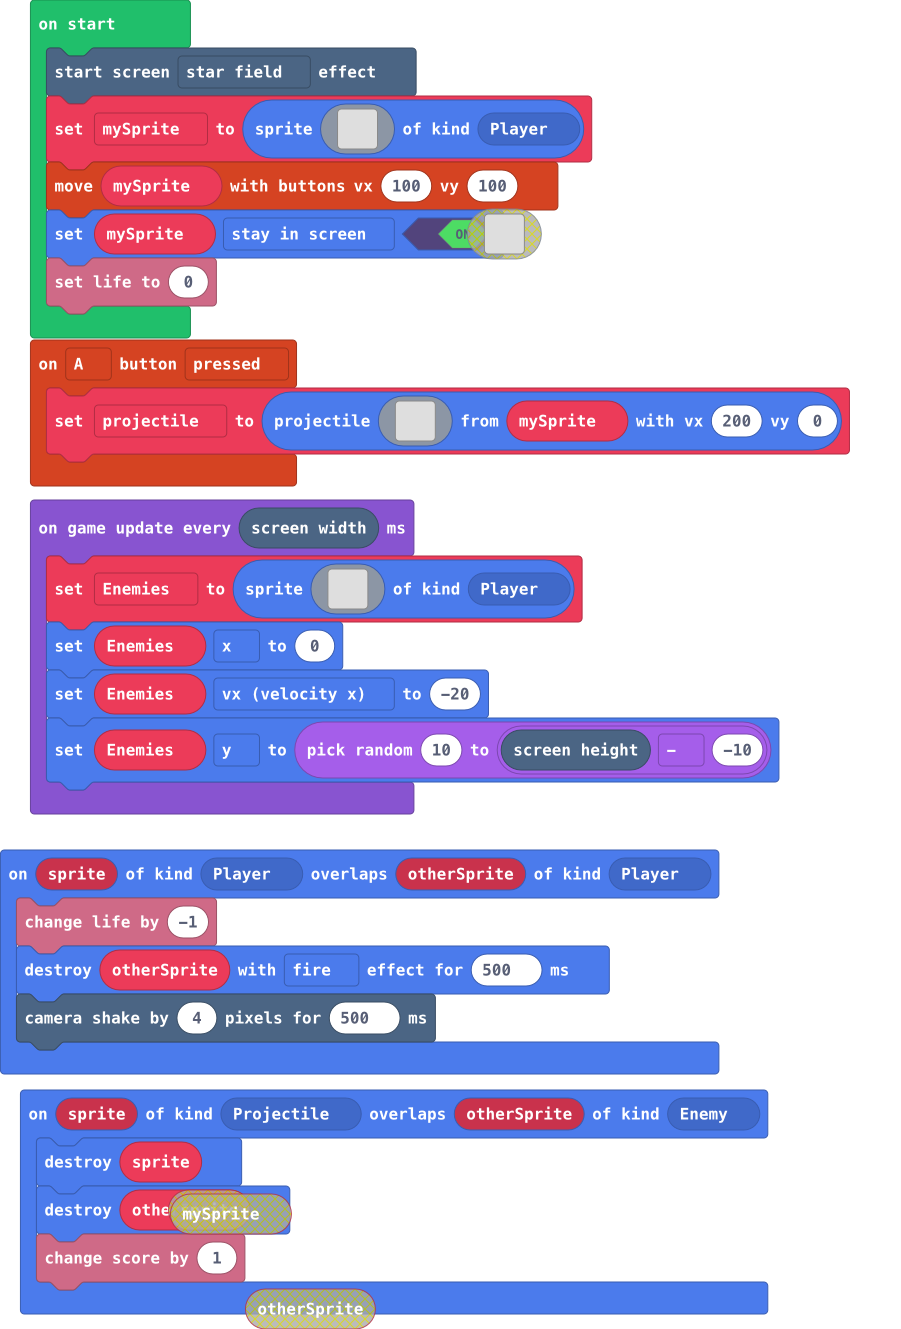
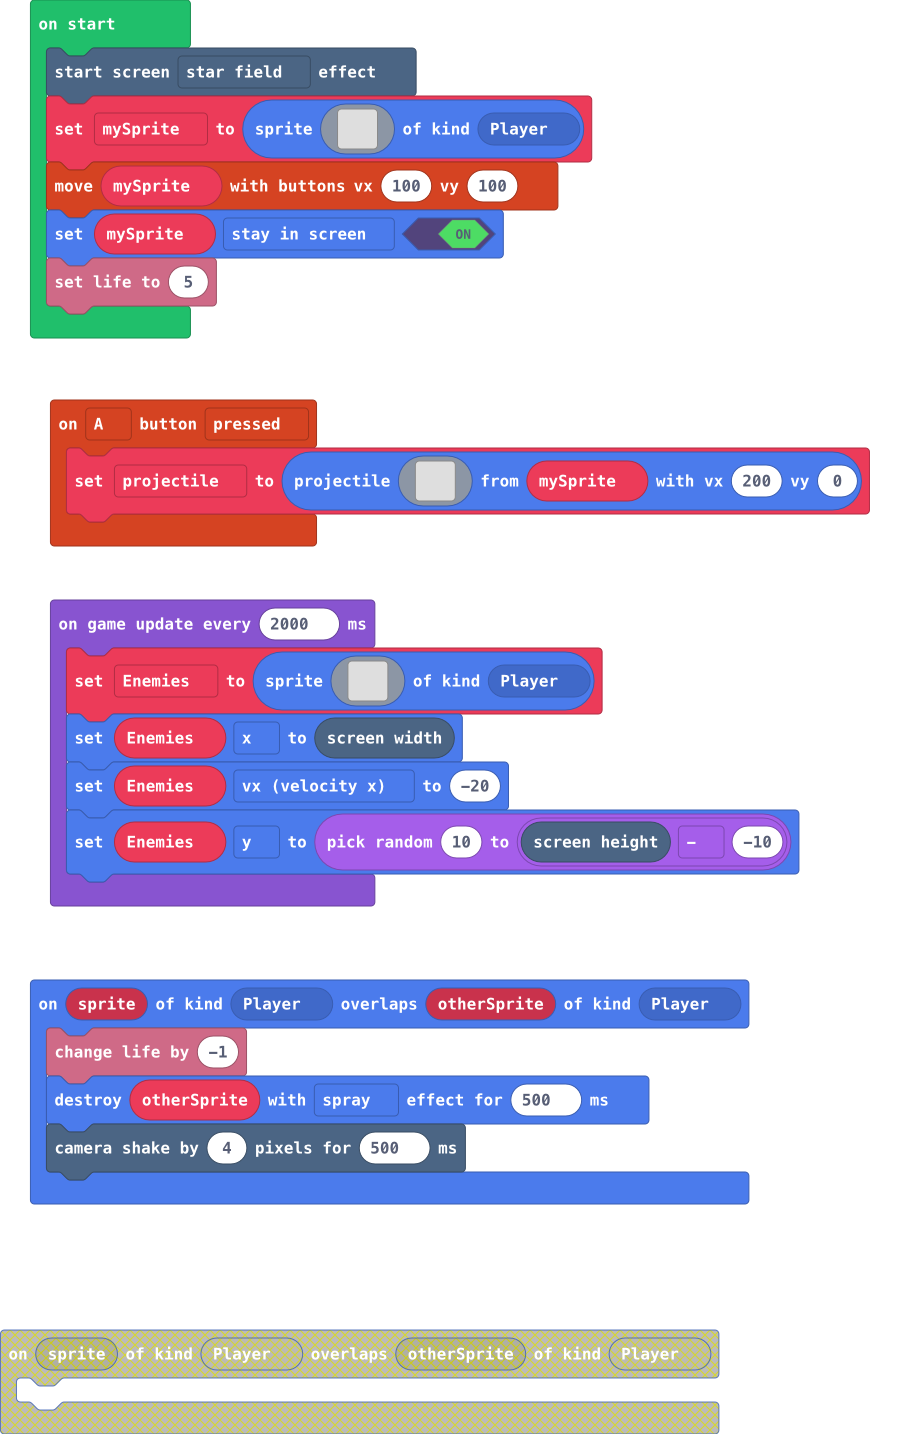
Update main.blocks, main.ts, images.g.jres, images.g.ts

diff --git a/images.g.ts b/images.g.ts
@@ -225,6 +225,42 @@ fcf.f222222f44ee........
 ........................
 ........................
 `;
+            case "image12":return img`
+. . . . . . 2 2 2 2 . . . . . . 
+. . . . 2 2 3 3 3 3 2 e . . . . 
+. . . 2 3 d 1 1 d d 3 2 e . . . 
+. . 2 3 1 d 3 3 3 d d 3 e . . . 
+. 2 3 1 3 3 3 3 3 d 1 3 b e . . 
+. 2 1 d 3 3 3 3 d 3 3 1 3 b b . 
+2 3 1 d 3 3 1 1 3 3 3 1 3 4 b b 
+2 d 3 3 d 1 3 1 3 3 3 1 3 4 4 b 
+2 d 3 3 3 1 3 1 3 3 3 1 b 4 4 e 
+2 d 3 3 3 1 1 3 3 3 3 1 b 4 4 e 
+e d 3 3 3 3 d 3 3 3 d d b 4 4 e 
+e d d 3 3 3 d 3 3 3 1 3 b 4 b e 
+e 3 d 3 3 1 d d 3 d 1 b b e e . 
+. e 3 1 1 d d 1 1 1 b b e e e . 
+. . e 3 3 3 3 3 3 b e e e e . . 
+. . . e e e e e e e e e e . . . 
+`;
+            case "image13":return img`
+. . . . . . 2 2 2 2 . . . . . . 
+. . . . 2 2 3 3 3 3 2 e . . . . 
+. . . 2 3 d 1 1 d d 3 2 e . . . 
+. . 2 3 1 d 3 3 3 d d 3 e . . . 
+. 2 3 1 3 3 3 3 3 d 1 3 b e . . 
+. 2 1 d 3 3 3 3 d 3 3 1 3 b b . 
+2 3 1 d 3 3 1 1 3 3 3 1 3 4 b b 
+2 d 3 3 d 1 3 1 3 3 3 1 3 4 4 b 
+2 d 3 3 3 1 3 1 3 3 3 1 b 4 4 e 
+2 d 3 3 3 1 1 3 3 3 3 1 b 4 4 e 
+e d 3 3 3 3 d 3 3 3 d d b 4 4 e 
+e d d 3 3 3 d 3 3 3 1 3 b 4 b e 
+e 3 d 3 3 1 d d 3 d 1 b b e e . 
+. e 3 1 1 d d 1 1 1 b b e e e . 
+. . e 3 3 3 3 3 3 b e e e e . . 
+. . . e e e e e e e e e e . . . 
+`;
         }
         return null;
     })

diff --git a/main.ts b/main.ts
@@ -20,13 +20,8 @@ controller.A.onEvent(ControllerButtonEvent.Pressed, function () {
 })
 sprites.onOverlap(SpriteKind.Player, SpriteKind.Player, function (sprite, otherSprite) {
     info.changeLifeBy(-1)
-    otherSprite.destroy(effects.fire, 500)
+    otherSprite.destroy(effects.spray, 500)
     scene.cameraShake(4, 500)
-})
-sprites.onOverlap(SpriteKind.Projectile, SpriteKind.Enemy, function (sprite, otherSprite) {
-    sprite.destroy()
-    otherSprite.destroy()
-    info.changeScoreBy(1)
 })
 let Enemies: Sprite = null
 let projectile: Sprite = null
@@ -60,8 +55,8 @@ mySprite = sprites.create(img`
     `, SpriteKind.Player)
 controller.moveSprite(mySprite, 100, 100)
 mySprite.setFlag(SpriteFlag.StayInScreen, true)
-info.setLife(0)
-game.onUpdateInterval(scene.screenWidth(), function () {
+info.setLife(5)
+game.onUpdateInterval(2000, function () {
     Enemies = sprites.create(img`
         . . . . . . . . . 3 . . . . . . 
         . . . . . . . . 3 3 . . . . . . 
@@ -80,7 +75,7 @@ game.onUpdateInterval(scene.screenWidth(), function () {
         . . . . . . . . . . . . . . . . 
         . . . . . . . . . . . . . . . . 
         `, SpriteKind.Player)
-    Enemies.x = 0
+    Enemies.x = scene.screenWidth()
     Enemies.vx = -20
     Enemies.y = randint(10, scene.screenHeight() - -10)
 })
